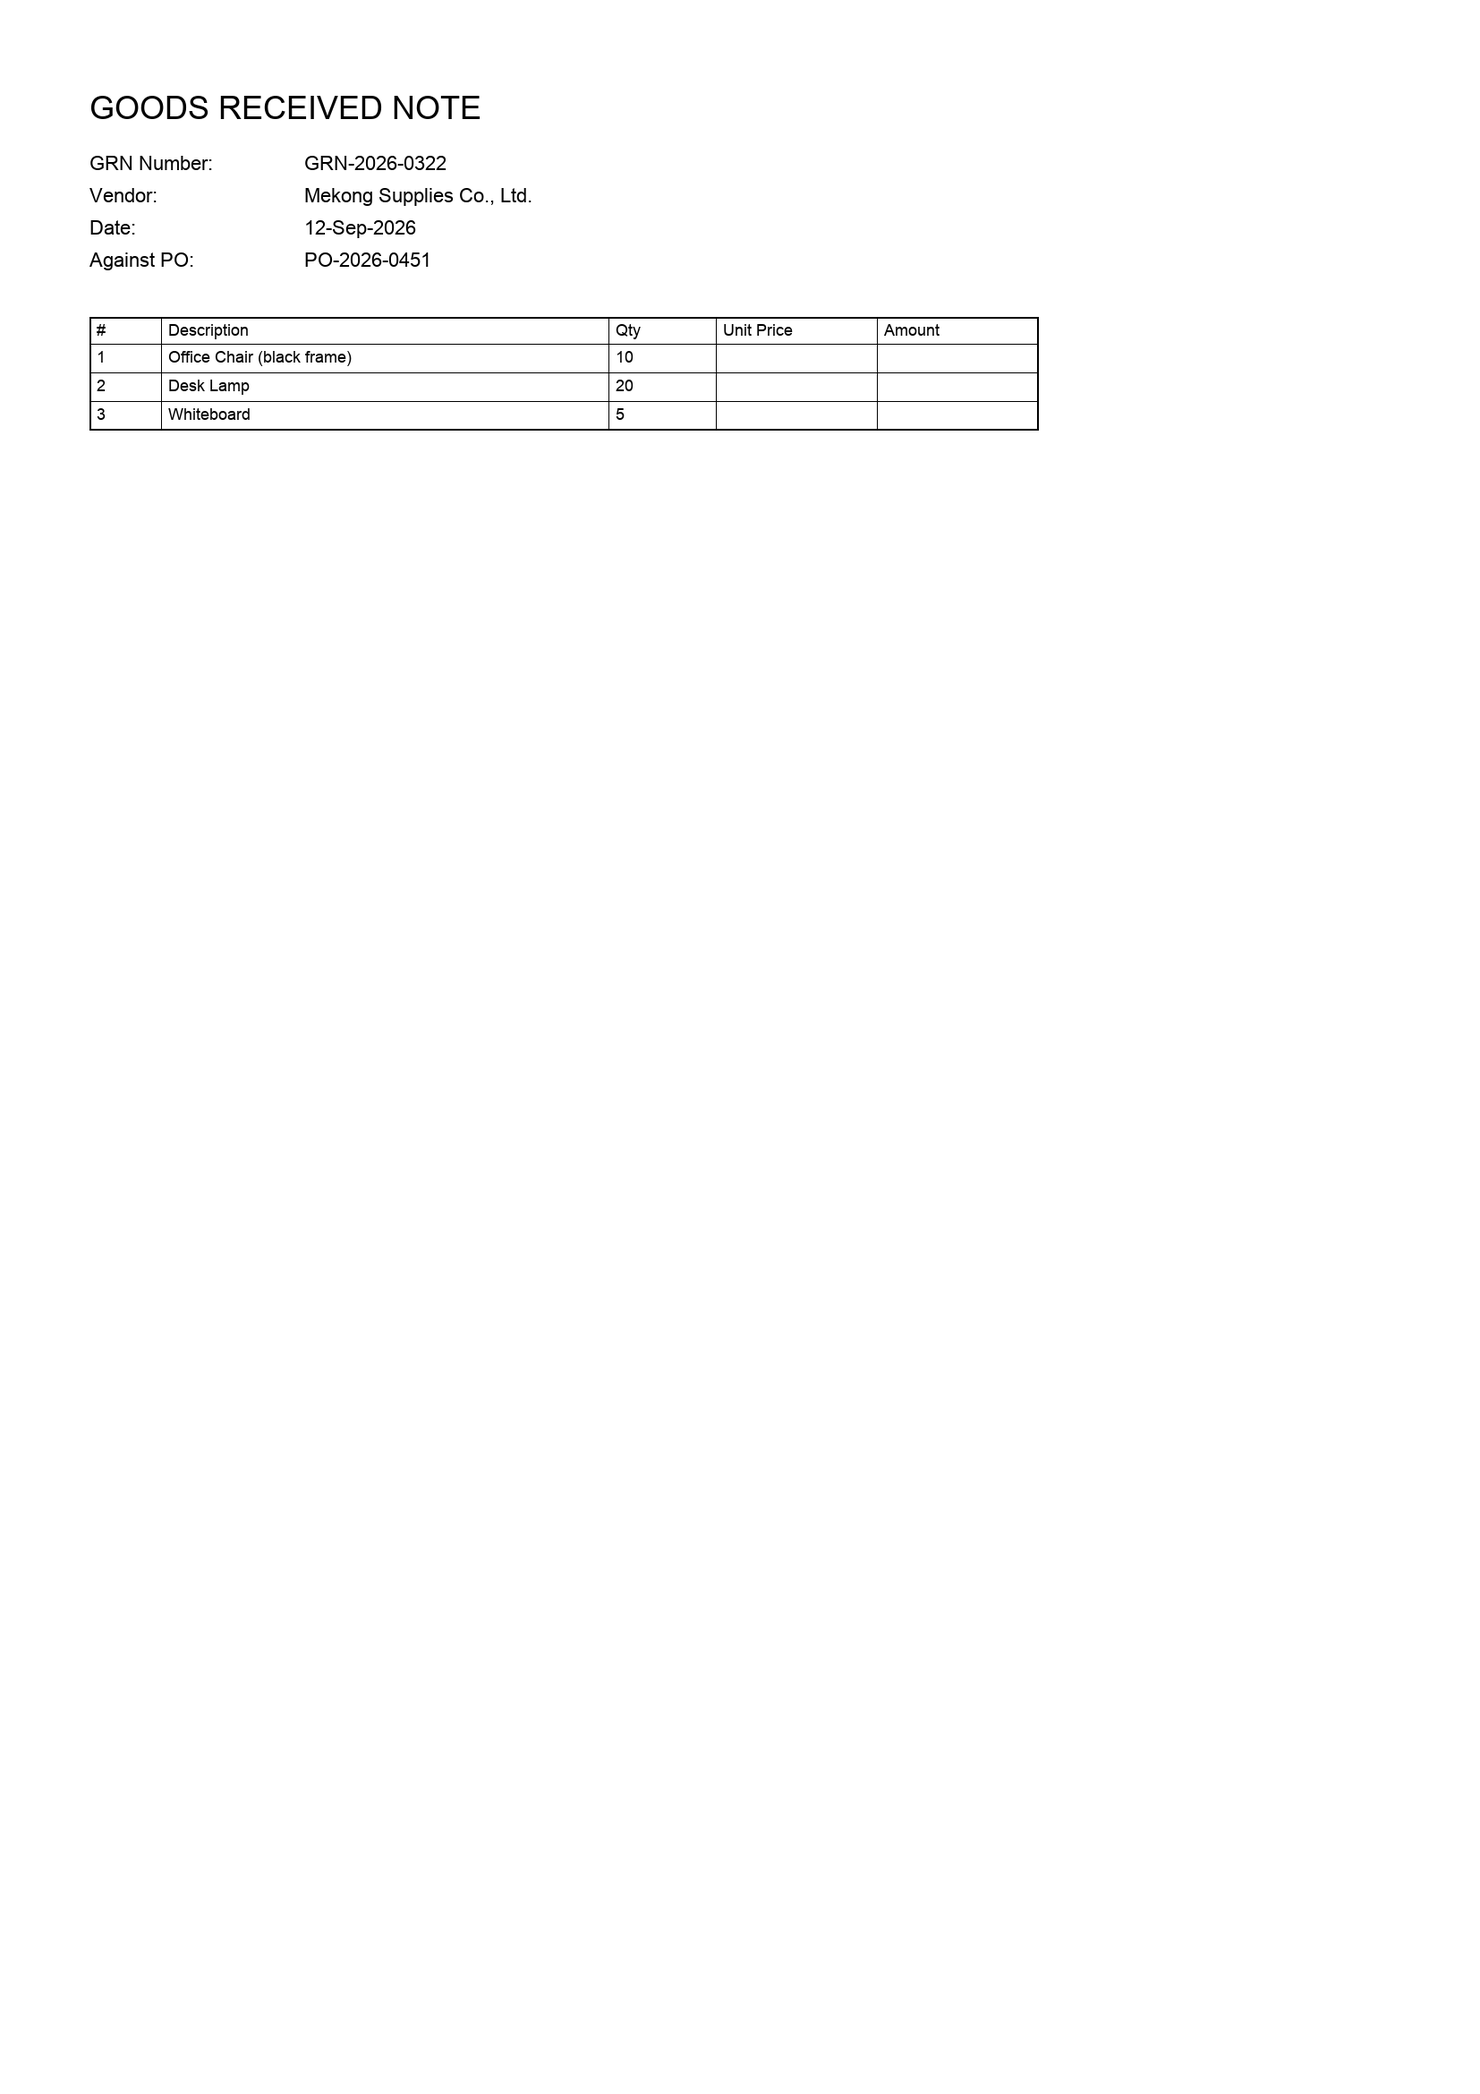
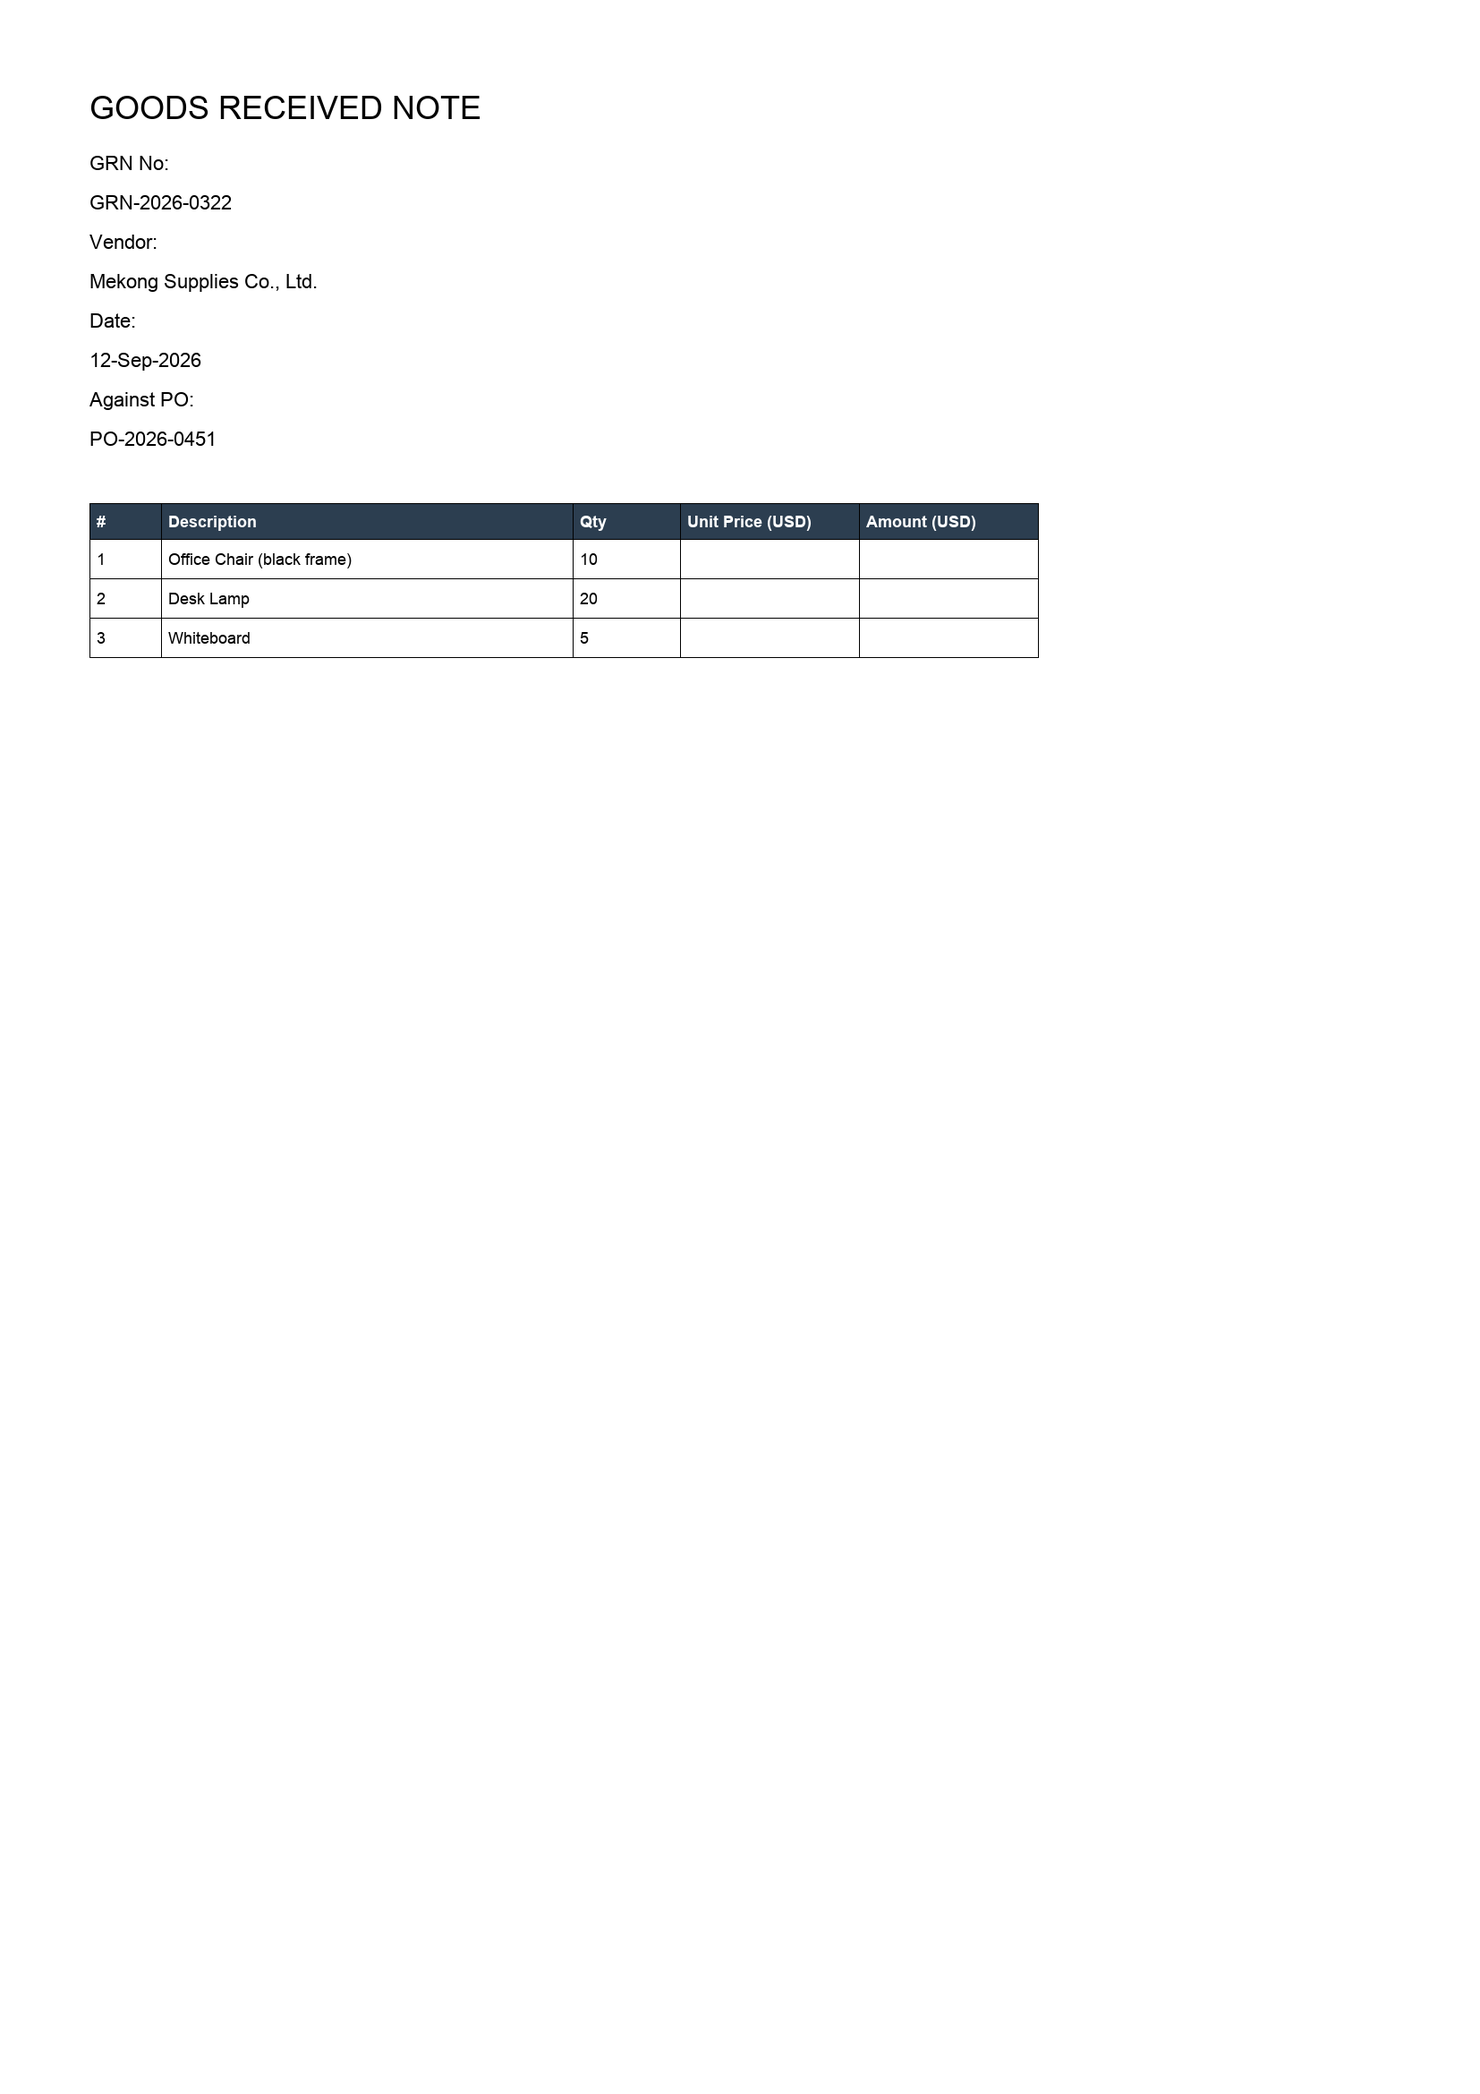
test(demo): fix generated demo fixtures + shared OCR engines (EMB-08)
The generated demo fixtures now parse cleanly through the real OCR
pipeline. Layout fixes learned against PP-StructureV3 + the spatial
parse layer:
- Table needs a dark navy header row (white text); a plain white
  header gets its rows/columns scrambled.
- Header fields use label-on-one-line, value-below: same-line
  label:value pairs are sometimes merged by the OCR text detector, and
  the money extractor (labeled_money) has no same-block fallback.
- PARD amount is a right-aligned block: a sparse left-only layout puts
  content at the OCR detection-region edge, which drops first
  characters (USD->JSD, INV->NV).
- All four docs share the same 5-column table shape (the GRN leaves
  Unit Price/Amount empty); a narrower 3-column GRN table scrambles.

The demo test now builds the OCR engines once (session-scoped) and
reuses them across tests: run_pipeline otherwise rebuilds ~2.6 GB of
weights per call, and the route test (two pipeline runs) OOM-killed
the 15 GB server. All 4 tests pass (48 min, CPU-only).

Verified: 4 passed in tests/integration/test_embeddings_demo.py.

Changed region(s): [[0.0617, 0.0936, 0.7092, 0.3121], [0.2158, 0.0624, 0.3083, 0.1248], [0.4008, 0.156, 0.4317, 0.1873]]

diff --git a/scripts/make_demo_fixtures.py b/scripts/make_demo_fixtures.py
@@ -3,6 +3,19 @@ Render the demo fixture set (PO, GRN, Invoice, PARD) as PNGs.
 
 Deterministic: running twice produces byte-identical PNGs
 (Pillow output is deterministic given fixed inputs).
+
+Layout notes (learned the hard way against PP-StructureV3 + the parse
+layer's spatial matcher):
+- The table needs a dark navy header row with white text (like the
+  production fixtures). A plain white header gets its reading direction
+  and cell order scrambled by the table pipeline.
+- Header field values go on the line BELOW the label, not to its right:
+  the OCR text detector sometimes merges same-line label:value pairs
+  into one block, and the money extractor (labeled_money) has no
+  same-block fallback. Separate lines are never merged, and the parse
+  layer's below-lookup (80px) always finds them.
+- Labels must match the extractor variants: "PO No", "GRN No",
+  "PARD No" (see apmatch/parse/*.py).
 """
 
 from pathlib import Path
@@ -14,7 +27,7 @@ from PIL import Image, ImageDraw, ImageFont
 #
 # The semantic demo: PO says "Office Chair"; Invoice says
 # "Chair, office, metal frame, black"; GRN says
-# "Office Chair (black)". After normalization these strings
+# "Office Chair (black frame)". After normalization these strings
 # remain distinct (different words), so the exact-match path
 # fails. Embeddings find them equivalent.
 
@@ -22,15 +35,23 @@ FIXTURE_DIR = Path(__file__).resolve().parents[1] / "documents" / "demo"
 
 # ---- Font resolution ----
 
-
-def _find_font(size: int) -> ImageFont.FreeTypeFont:
-    candidates = [
+_FONT_CANDIDATES = {
+    False: [
         "/System/Library/Fonts/Supplemental/Arial.ttf",
         "/Library/Fonts/Arial Unicode.ttf",
         "/usr/share/fonts/truetype/dejavu/DejaVuSans.ttf",
         "/usr/share/fonts/truetype/liberation/LiberationSans-Regular.ttf",
-    ]
-    for p in candidates:
+    ],
+    True: [
+        "/System/Library/Fonts/Supplemental/Arial Bold.ttf",
+        "/usr/share/fonts/truetype/dejavu/DejaVuSans-Bold.ttf",
+        "/usr/share/fonts/truetype/liberation/LiberationSans-Bold.ttf",
+    ],
+}
+
+
+def _find_font(size: int, bold: bool = False) -> ImageFont.FreeTypeFont:
+    for p in _FONT_CANDIDATES[bold]:
         if Path(p).exists():
             return ImageFont.truetype(p, size)
     return ImageFont.load_default()
@@ -39,21 +60,39 @@ def _find_font(size: int) -> ImageFont.FreeTypeFont:
 # ---- Page rendering ----
 
 
+def _labeled_field(d: ImageDraw.ImageDraw, x: int, y: int, label: str, value: str,
+                   font) -> int:
+    """Draw 'label:' on one line and the value on the next (same x).
+
+    Returns the y just below the value. Separate lines are never merged
+    into one block by the OCR text detector, so the parse layer's
+    below-lookup (80px) always finds the value. Same-line label:value
+    pairs are unreliable: the detector sometimes merges them, and the
+    money extractor (labeled_money) has no same-block fallback.
+    """
+    d.text((x, y), f"{label}:", font=font, fill="black")
+    y += 44
+    d.text((x, y), value, font=font, fill="black")
+    return y + 44
+
+
 def _render_page(
     title: str,
     header: dict[str, str],
     line_items: list[dict],
     totals: dict[str, str] | None,
     out_path: Path,
+    cols: list[tuple[str, int]],
 ) -> None:
     """
     Renders an A4-ish page:
       - Title at top
-      - Header block (label: value lines)
-      - Line-item table with # / Description / Qty / Unit Price / Amount
-      - Optional totals block
-    Uses simple 12pt text, monochrome, plain borders — mimics
-    a printed supplier invoice.
+      - Header block (label line, value line below — see _labeled_field)
+      - Line-item table (dark navy header row, 1px grid)
+      - Optional totals block (label line, value line below)
+    Mimics the existing production fixtures, which PP-StructureV3 reads
+    reliably: the dark header row is the cue the table pipeline needs to
+    get reading direction and cell order right.
     """
     W, H = 1654, 2339  # A4 @ 200 DPI
     img = Image.new("RGB", (W, H), "white")
@@ -62,6 +101,7 @@ def _render_page(
     f_title = _find_font(36)
     f_body = _find_font(22)
     f_small = _find_font(18)
+    f_small_bold = _find_font(18, bold=True)
 
     x0, y = 100, 100
 
@@ -69,64 +109,60 @@ def _render_page(
     d.text((x0, y), title, font=f_title, fill="black")
     y += 70
 
-    # Header rows
+    # Header fields (label line, value line below)
     for k, v in header.items():
-        d.text((x0, y), f"{k}:", font=f_body, fill="black")
-        d.text((x0 + 240, y), v, font=f_body, fill="black")
-        y += 36
+        y = _labeled_field(d, x0, y, k, v, f_body)
 
     y += 40
 
-    # Table (full grid: PP-StructureV3 needs borders to extract cells
-    # reliably — a borderless layout misaligns cells).
-    cols = [("#", 80), ("Description", 500), ("Qty", 120),
-            ("Unit Price", 180), ("Amount", 180)]
-    col_widths = [w for _, w in cols]
-    table_w = sum(col_widths)
-    header_h, row_h = 30, 32
-    n_rows = len(line_items)
-    top = y
-    bottom = top + header_h + n_rows * row_h
+    # Table (dark navy header row + 1px grid, like the production fixtures)
+    if line_items:
+        col_widths = [w for _, w in cols]
+        table_w = sum(col_widths)
+        header_h, row_h = 40, 44
+        n_rows = len(line_items)
+        top = y
+        bottom = top + header_h + n_rows * row_h
 
-    d.rectangle([x0, top, x0 + table_w, bottom], outline="black", width=2)
-    vx = x0
-    for w in col_widths[:-1]:
-        vx += w
-        d.line([(vx, top), (vx, bottom)], fill="black", width=1)
-    d.line([(x0, top + header_h), (x0 + table_w, top + header_h)], fill="black", width=1)
-    for i in range(1, n_rows):
-        hy = top + header_h + i * row_h
-        d.line([(x0, hy), (x0 + table_w, hy)], fill="black", width=1)
+        d.rectangle([x0, top, x0 + table_w, top + header_h], fill=(44, 62, 80))
+        d.rectangle([x0, top, x0 + table_w, bottom], outline="black", width=1)
+        vx = x0
+        for w in col_widths[:-1]:
+            vx += w
+            d.line([(vx, top), (vx, bottom)], fill="black", width=1)
+        d.line([(x0, top + header_h), (x0 + table_w, top + header_h)],
+               fill="black", width=1)
+        for i in range(1, n_rows):
+            hy = top + header_h + i * row_h
+            d.line([(x0, hy), (x0 + table_w, hy)], fill="black", width=1)
 
-    # Header row
-    tx = x0
-    for name, w in cols:
-        d.text((tx + 8, top + 4), name, font=f_small, fill="black")
-        tx += w
-
-    # Data rows
-    for i, row in enumerate(line_items):
-        ry = top + header_h + i * row_h
+        # Header row (white bold on navy)
         tx = x0
-        vals = [
-            str(row["line_no"]),
-            row["description"],
-            str(row["quantity"]),
-            str(row["unit_price"]),
-            str(row["amount"]),
-        ]
-        for (_name, w), v in zip(cols, vals, strict=True):
-            d.text((tx + 8, ry + 4), v, font=f_small, fill="black")
+        for name, w in cols:
+            d.text((tx + 8, top + 10), name, font=f_small_bold, fill="white")
             tx += w
-    y = bottom + 10
 
-    # Totals
+        # Data rows
+        for i, row in enumerate(line_items):
+            ry = top + header_h + i * row_h
+            tx = x0
+            vals = [
+                str(row["line_no"]),
+                row["description"],
+                str(row["quantity"]),
+                str(row["unit_price"]),
+                str(row["amount"]),
+            ]
+            for (_name, w), v in zip(cols, vals):  # noqa: B905 — stops at the shorter (cols)
+                if v:
+                    d.text((tx + 8, ry + 12), v, font=f_small, fill="black")
+                tx += w
+        y = bottom + 30
+
+    # Totals (right-side block, label line, value line below)
     if totals:
-        y += 30
         for k, v in totals.items():
-            d.text((x0 + 900, y), f"{k}:", font=f_body, fill="black")
-            d.text((x0 + 1200, y), v, font=f_body, fill="black")
-            y += 36
+            y = _labeled_field(d, x0 + 700, y, k, v, f_body)
 
     out_path.parent.mkdir(parents=True, exist_ok=True)
     img.save(out_path, format="PNG", optimize=False)
@@ -136,7 +172,7 @@ def _render_page(
 
 PO = {
     "header": {
-        "PO Number": "PO-2026-0451",
+        "PO No": "PO-2026-0451",
         "Vendor": "Mekong Supplies Co., Ltd.",
         "Date": "15-Aug-2026",
         "Currency": "USD",
@@ -182,7 +218,7 @@ INVOICE = {
 # GRN: quantities only, descriptions differ again.
 GRN = {
     "header": {
-        "GRN Number": "GRN-2026-0322",
+        "GRN No": "GRN-2026-0322",
         "Vendor": "Mekong Supplies Co., Ltd.",
         "Date": "12-Sep-2026",
         "Against PO": "PO-2026-0451",
@@ -199,33 +235,43 @@ GRN = {
     "title": "GOODS RECEIVED NOTE",
 }
 
-# PARD: single total, no line items.
+# PARD: single total, no line items. The amount is a right-aligned block
+# (not a header field): a sparse left-only layout puts the content at the
+# left edge of the OCR detection region, which drops first characters
+# (INV->NV, USD->JSD). A right-aligned amount spans the page width, like
+# the PO/invoice totals, so the left content keeps its margin.
 PARD = {
     "header": {
-        "Reference": "PARD-2026-0210",
+        "PARD No": "PARD-2026-0210",
         "Against Invoice": "INV-2026-1123",
-        "Amount Paid": "USD 1,100.00",
         "Date Paid": "01-Oct-2026",
         "Method": "Bank transfer",
     },
     "line_items": [],
-    "totals": None,
+    "totals": {"Amount Paid": "USD 1,100.00"},
     "title": "PAYMENT ADVICE",
 }
 
 # ---- Main ----
 
 
+# All four documents use the same 5-column table shape: PP-StructureV3
+# detects this shape reliably (a narrower 3-column GRN table gets its rows
+# scrambled). The GRN leaves Unit Price / Amount empty (quantity-only doc).
+FULL_COLS = [("#", 80), ("Description", 460), ("Qty", 120),
+             ("Unit Price (USD)", 200), ("Amount (USD)", 200)]
+
+
 def main() -> None:
     FIXTURE_DIR.mkdir(parents=True, exist_ok=True)
     _render_page(PO["title"], PO["header"], PO["line_items"], PO["totals"],
-                 FIXTURE_DIR / "po.png")
+                 FIXTURE_DIR / "po.png", FULL_COLS)
     _render_page(INVOICE["title"], INVOICE["header"], INVOICE["line_items"],
-                 INVOICE["totals"], FIXTURE_DIR / "invoice.png")
+                 INVOICE["totals"], FIXTURE_DIR / "invoice.png", FULL_COLS)
     _render_page(GRN["title"], GRN["header"], GRN["line_items"], GRN["totals"],
-                 FIXTURE_DIR / "grn.png")
+                 FIXTURE_DIR / "grn.png", FULL_COLS)
     _render_page(PARD["title"], PARD["header"], PARD["line_items"], PARD["totals"],
-                 FIXTURE_DIR / "pard.png")
+                 FIXTURE_DIR / "pard.png", [])
     print(f"wrote 4 fixture images to {FIXTURE_DIR}")
 
 

diff --git a/tests/integration/test_embeddings_demo.py b/tests/integration/test_embeddings_demo.py
@@ -24,7 +24,25 @@ def embedding_model():
     return EmbeddingModel()
 
 
-def _run(embedding_model=None):
+# The OCR engines hold ~2.6 GB of model weights. Build them once and reuse
+# across every test: run_pipeline would otherwise rebuild them per call, and
+# the 4th test (two pipeline runs) would peak high enough to OOM the
+# 15 GB server (which also runs the production API, ~4.5 GB).
+@pytest.fixture(scope="session")
+def ocr_router():
+    from apmatch.ocr.router import OCRRouter
+
+    return OCRRouter()
+
+
+@pytest.fixture(scope="session")
+def layout_engine():
+    from apmatch.layout.structure import LayoutEngine
+
+    return LayoutEngine()
+
+
+def _run(embedding_model=None, router=None, layout=None):
     from apmatch.api.pipeline import run_pipeline
 
     return run_pipeline(
@@ -33,12 +51,15 @@ def _run(embedding_model=None):
         grni_path=DEMO / "grn.png",
         pard_path=DEMO / "pard.png",
         embedding_model=embedding_model,
+        router=router,
+        layout=layout,
     )
 
 
-def test_demo_without_embeddings_produces_discrepancy():
+def test_demo_without_embeddings_produces_discrepancy(ocr_router, layout_engine):
     # Run the pipeline on the demo fixtures WITHOUT an embedding model.
-    match, _, decision, _ = _run(embedding_model=None)
+    match, _, decision, _ = _run(
+        embedding_model=None, router=ocr_router, layout=layout_engine)
     # Descriptions differ (no exact match), so we expect
     # NO_MATCHING_PO_LINE on line 1 (or line 2, or line 3).
     codes = [f.code.value for f in match.failures]
@@ -46,9 +67,10 @@ def test_demo_without_embeddings_produces_discrepancy():
     assert decision.route.value == "HUMAN_REVIEW"
 
 
-def test_demo_with_embeddings_produces_match(embedding_model):
+def test_demo_with_embeddings_produces_match(embedding_model, ocr_router, layout_engine):
     # Same fixtures, WITH the real embedding model.
-    match, _, decision, _ = _run(embedding_model=embedding_model)
+    match, _, decision, _ = _run(
+        embedding_model=embedding_model, router=ocr_router, layout=layout_engine)
     # Line 1 should now match by similarity.
     assert len(match.similarity_matches) >= 1
     sm = match.similarity_matches[0]
@@ -60,9 +82,10 @@ def test_demo_with_embeddings_produces_match(embedding_model):
     assert decision.route.value in ("AUTO_APPROVE", "HUMAN_REVIEW")
 
 
-def test_demo_similarity_evidence_is_complete(embedding_model):
+def test_demo_similarity_evidence_is_complete(embedding_model, ocr_router, layout_engine):
     # Every similarity match carries the full audit evidence.
-    match, _, _, _ = _run(embedding_model=embedding_model)
+    match, _, _, _ = _run(
+        embedding_model=embedding_model, router=ocr_router, layout=layout_engine)
     for sm in match.similarity_matches:
         assert sm.score > 0
         assert sm.threshold_review > 0
@@ -71,10 +94,12 @@ def test_demo_similarity_evidence_is_complete(embedding_model):
         assert sm.location.startswith("line ")
 
 
-def test_demo_route_depends_on_embeddings(embedding_model):
+def test_demo_route_depends_on_embeddings(embedding_model, ocr_router, layout_engine):
     # The before/after: without embeddings -> HUMAN_REVIEW,
     # with embeddings -> not REJECT (usually AUTO_APPROVE).
-    _, _, d_off, _ = _run(embedding_model=None)
-    _, _, d_on, _ = _run(embedding_model=embedding_model)
+    _, _, d_off, _ = _run(
+        embedding_model=None, router=ocr_router, layout=layout_engine)
+    _, _, d_on, _ = _run(
+        embedding_model=embedding_model, router=ocr_router, layout=layout_engine)
     assert d_off.route.value == "HUMAN_REVIEW"
     assert d_on.route.value != "REJECT"
